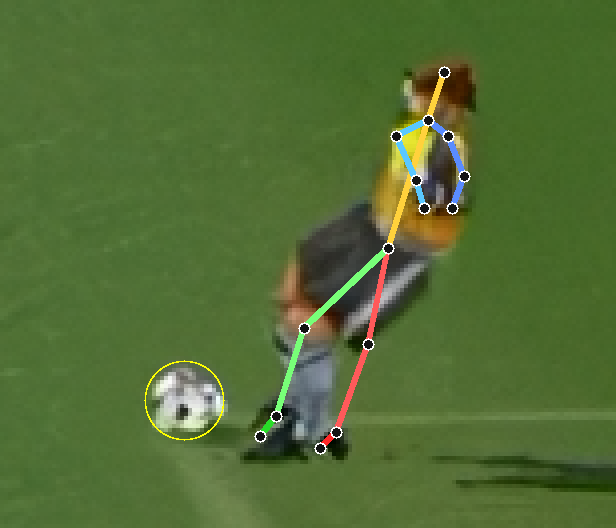
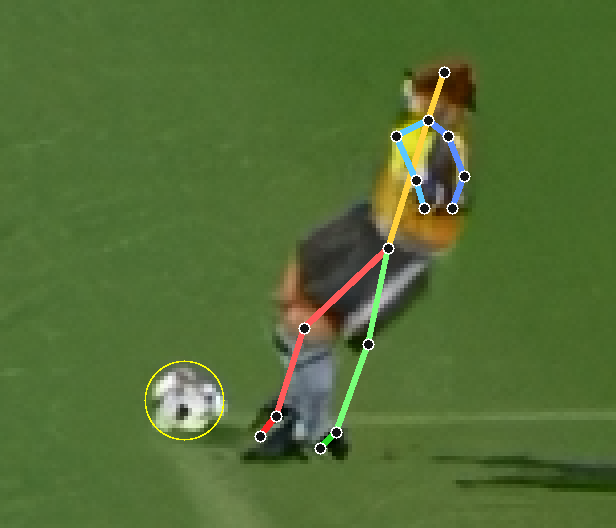
GK settings

diff --git a/js/config/animations.js b/js/config/animations.js
@@ -118,12 +118,12 @@ const ActionAnimClips = {
     tiro de meta tem a corrida de aproximação mais longa e o batedor levanta a
     bola, a falta e o penálti batem-na rasa a poucos passos.
 
-    Mesma contagem e mesmo contacto do `playerKick` porque o gesto ARRANCA daí:
-    4 keyframes (as imagens GoalKick1 a 4) e o contacto no último, portanto
-    `contactTime` 1 e nenhum follow-through. Os números divergem a partir daqui
-    conforme se afinam no editor de animação, e é isso que se queria.
+    O CONTACTO É NO KEYFRAME 9 DE 13 — `contactTime` 8/12 — e não no fim. Era
+    1, com o clip a acabar no contacto e sem seguimento: a bola saía com ele já
+    de pé. Desde que o clip foi refeito com a ordem certa das fotografias
+    (ver GoalKickClip), o contacto é a meio e o seguimento joga-se depois.
     */
-    goalKick: { duration: 0.55, contactTime: 1 }
+    goalKick: { duration: 0.55, contactTime: 8 / 12 }
 };
 
 /*
@@ -604,24 +604,33 @@ graus, e a terceira deixou o frame do contacto com as pernas a 22 graus uma da
 outra — um homem parado. Relato: *"Vc não consegue identificar os frames
 corretamente."* Estava certo.
 
-A ORDEM É A DAS IMAGENS COMO CHEGARAM: GoalKick1, 2, 3 e 4 nos principais 1,
-5, 9 e 13. Dada pelo autor, e repetida depois de eu a ter trocado.
+A ORDEM É 24 -> 26 -> 23 -> 25, CONFIRMADA PELO AUTOR A 2 DE OUTUBRO.
 
-COMO EU A TROQUEI, para não se repetir: comparei a distância do jogador à
-bola em PÍXEIS — ~50 px numa imagem, ~85 px na outra — e concluí que a mais
-longe vinha primeiro. A conta não vale nada, porque as imagens têm ZOOMS
+Em Setembro foi outra — 24, 23, 25, 26, "as imagens como chegaram" — e com ela
+o clip acabava num contacto DEDUZIDO, sem imagem, e a perna de chute nunca
+passava para a frente: ia atrás no balanço, ficava atrás e descia. A bola saía
+no fim, com ele de pé (*"o tiro de meta"*). Perguntado com as provas à frente,
+o autor confirmou a ordem nova. As provas, para quem vier depois:
+
+  . na 26 a bola AINDA ESTÁ PARADA ao lado do pé de apoio — é ANTES do contacto;
+  . na 25 JÁ NÃO HÁ BOLA e a perna está esticada no ar — é DEPOIS;
+  . na 23 os dois pés estão rente à relva junto à bola — é o contacto.
+
+E a 25 está virada para a ESQUERDA, como as outras: lida para a direita, a
+perna esticada dava "77 graus atrás"; é à FRENTE. Confirmado.
+
+COMO EU A TINHA TROCADO ANTES, para não se repetir: comparei a distância do
+jogador à bola em PÍXEIS — ~50 px numa imagem, ~85 px na outra — e concluí que
+a mais longe vinha primeiro. A conta não vale nada, porque as imagens têm ZOOMS
 DIFERENTES: uma tem 153 px de largura e a outra 199. Distâncias em píxeis só
 se comparam DENTRO da mesma imagem.
 
-    1  GoalKick1   o arranque do passo, VISTA DE COSTAS: tronco à frente,
-                   pé de apoio no chão, perna de chute atrás e no ar
-    5  GoalKick2   o fim do passo: pé de apoio PLANTADO AO LADO DA BOLA, 55
-                   graus à frente; perna de chute 88 graus atrás, esticada;
-                   braço esquerdo atrás e direito à frente
-    9  GoalKick3   armação, VISTA DE COSTAS: perna de chute 77 graus atrás e
-                   ESTICADA (não é o calcanhar no glúteo — medido, o joelho
-                   tem 10 graus de flexão), braços abertos PARA OS LADOS
-   13  GoalKick4   CONTACTO — DEDUZIDO, não há imagem deste instante
+    1  fotografia 24   a aproximação: a correr para a bola, tronco à frente
+    5  fotografia 26   o balanço atrás: pé de apoio PLANTADO AO LADO DA BOLA,
+                       55 graus à frente; perna de chute 88 graus atrás
+    9  fotografia 23   o CONTACTO: os dois pés rente à relva junto à bola,
+                       tronco 17 graus para trás
+   13  fotografia 25   o seguimento: perna de chute esticada 75 graus À FRENTE
 
 =============================================================================
 É UM PASSO, E O PÉ DE APOIO FICA AO LADO DA BOLA
@@ -646,6 +655,11 @@ DUAS ARMADILHAS DA LEITURA, que já me apanharam as duas:
     a primeira pela que vai BATER. É o contrário: a que se planta AO LADO da
     bola é a de APOIO, e a de chute é a que está atrás, ainda a vir. Esse
     engano pôs a pose do meio no fim do gesto.
+  . UMA VISTA DE TRÁS ENCURTA A PERNA QUE VAI À FRENTE. A 23 é tirada de trás,
+    a três quartos: a perna de chute aponta para a frente — para dentro da
+    imagem — e aparece mais curta e mais vertical do que é. O ângulo lido
+    nela (-46 graus) punha o pé de chute meio metro ACIMA da bola. No
+    contacto manda a bola, não o traçado: o pé tem de passar rente à relva.
   . NÃO HÁ UM PÉ QUE SEJA SEMPRE O QUE ASSENTA, portanto o `altura`
     resolve-se pelo pé MAIS BAIXO e não por um escolhido à mão. Quando era
     escolhido à mão, um keyframe acabou com o pé de chute 0.135 m DENTRO do
@@ -660,7 +674,8 @@ anca ao pé — portanto o valor sai de uma conta: `altura -= (y_do_pé_mais_bai
 contacto (*"o jogador aparece flutuando"*).
 
 Varrido o gesto em 41 amostras da interpolação, o pé de baixo afunda no
-máximo 0.021 m — 2 cm, invisível.
+máximo 0.018 m e flutua no máximo 0.009 m — invisível. (Medido nos valores
+como estão escritos aqui, a duas casas: o arredondamento conta.)
 
 Ângulos face à vertical, POSITIVO = para TRÁS do jogador. A conversão para o
 rig é `coxa_rig = ângulo_medido - pitchX`, porque o `pitchX` roda a anca e
@@ -694,77 +709,59 @@ esse keyframe que manda no seu instante.
 QUEM AFINAR UM PRINCIPAL tem de repensar os interpolados à volta dele, que já
 não estarão na linha entre os dois. O `tools/anim/README.md` tem o caminho.
 
-CONTACTO NO ÚLTIMO KEYFRAME (`contactFrame: 13`, t = 1.0): não há
-follow-through, a bola sai no instante em que o gesto acaba.
+CONTACTO NO KEYFRAME 9 (`contactFrame: 9`, t = 8/12): a bola sai no meio do
+gesto e o SEGUIMENTO (10 a 13) vê-se depois dela, com a perna de chute a subir
+à frente. Era no último keyframe, com o jogador já de pé — a bola saía sem
+haver chuto nenhum à vista.
 =============================================================================
 */
 const GoalKickClip = {
     pernaChute: 'r',
-    contactFrame: 13,
+    contactFrame: 9,
     frames: [
-        // ===== PRINCIPAL 1 — GoalKick1 =====
-        // O arranque do passo, VISTA DE COSTAS: tronco 19 graus à frente, pé
-        // de apoio no chão, perna de chute 33 graus atrás com o pé a 0.24 m.
-        //
-        // ESTA IMAGEM É A MENOS LEGÍVEL DAS QUATRO — 32 KB contra os 47 KB
-        // das outras, mais pequena e mais escura — e a ANCA não se distingue
-        // nela. Foi construída só do que a imagem mostra sem dúvida: corpo à
-        // frente, apoio no chão, chute atrás e no ar, braços baixos junto ao
-        // corpo — e conferida na vista de costas, que é a da fotografia.
-        { avanco: 0.00, leanZ: -0.14, pitchX: 0.28, chest: 0.06, coxaChute: 0.30, joelhoChute: 0.50, coxaChuteZ: -0.08, coxaApoio: -0.30, joelhoApoio: 0.45, bracoLx: 0.20, bracoLz: 0.28, bracoRx: 0.20, bracoRz: -0.28, cotoveloL: -0.75, cotoveloR: -0.75, peRx: -0.25, peLx: -0.15, cabecaX: -0.25, altura: -0.00, maoRx: 0.19, maoRy: 0.00, maoRz: 0.00, peLy: 0.17 },
-        // 2 — interpolado entre os principais 1 e 5.
-        { avanco: 0.25, leanZ: -0.13, pitchX: 0.21, chest: 0.05, coxaChute: 0.61, joelhoChute: 0.43, coxaChuteZ: -0.05, coxaApoio: -0.47, joelhoApoio: 0.43, bracoLx: 0.53, bracoLz: 0.30, bracoRx: -0.26, bracoRz: -0.30, cotoveloL: -0.59, cotoveloR: -0.59, peRx: -0.24, peLx: -0.17, cabecaX: -0.19, altura: -0.02, maoRx: 0.19, maoRy: 0.00, maoRz: 0.00, peLy: 0.17 },
+        // ===== PRINCIPAL 1 — fotografia 24 — A APROXIMACAO =====
+        // A correr para a bola, que esta longe a frente. Tronco 11 graus a
+        // frente. A perna de chute e a da FRENTE, no chao: o corpo passa por
+        // cima dela e e ela que fica atras no principal 5 — e o passo.
+        { avanco: 0.00, leanZ: -0.14, pitchX: 0.15, chest: 0.05, coxaChute: -0.36, joelhoChute: 0.71, coxaChuteZ: -0.08, coxaApoio: 0.58, joelhoApoio: 0.05, bracoLx: -0.09, bracoLz: 0.28, bracoRx: -0.39, bracoRz: -0.28, cotoveloL: -0.20, cotoveloR: -0.15, peRx: -0.25, peLx: -0.15, cabecaX: -0.25, altura: -0.03, maoRx: 0.19, maoRy: 0.00, maoRz: 0.00, peLy: 0.17 },
+        // 2 — interpolado entre os principais 1 e 5 (as pernas cruzam-se).
+        { avanco: 0.25, leanZ: -0.12, pitchX: 0.11, chest: 0.04, coxaChute: 0.11, joelhoChute: 0.59, coxaChuteZ: -0.05, coxaApoio: 0.20, joelhoApoio: 0.13, bracoLx: 0.31, bracoLz: 0.30, bracoRx: -0.70, bracoRz: -0.30, cotoveloL: -0.18, cotoveloR: -0.14, peRx: -0.24, peLx: -0.17, cabecaX: -0.19, altura: 0.02, maoRx: 0.19, maoRy: 0.00, maoRz: 0.00, peLy: 0.17 },
         // 3 — interpolado entre os principais 1 e 5.
-        { avanco: 0.50, leanZ: -0.11, pitchX: 0.14, chest: 0.04, coxaChute: 0.92, joelhoChute: 0.36, coxaChuteZ: -0.01, coxaApoio: -0.63, joelhoApoio: 0.41, bracoLx: 0.85, bracoLz: 0.32, bracoRx: -0.72, bracoRz: -0.32, cotoveloL: -0.42, cotoveloR: -0.42, peRx: -0.23, peLx: -0.20, cabecaX: -0.13, altura: -0.09, maoRx: 0.19, maoRy: 0.00, maoRz: 0.00, peLy: 0.17 },
+        { avanco: 0.50, leanZ: -0.11, pitchX: 0.07, chest: 0.04, coxaChute: 0.59, joelhoChute: 0.47, coxaChuteZ: -0.01, coxaApoio: -0.19, joelhoApoio: 0.21, bracoLx: 0.70, bracoLz: 0.32, bracoRx: -1.02, bracoRz: -0.31, cotoveloL: -0.15, cotoveloR: -0.12, peRx: -0.22, peLx: -0.20, cabecaX: -0.12, altura: 0.02, maoRx: 0.19, maoRy: 0.00, maoRz: 0.00, peLy: 0.17 },
         // 4 — interpolado entre os principais 1 e 5.
-        { avanco: 0.75, leanZ: -0.10, pitchX: 0.07, chest: 0.04, coxaChute: 1.23, joelhoChute: 0.30, coxaChuteZ: 0.02, coxaApoio: -0.80, joelhoApoio: 0.39, bracoLx: 1.18, bracoLz: 0.33, bracoRx: -1.18, bracoRz: -0.33, cotoveloL: -0.26, cotoveloR: -0.26, peRx: -0.21, peLx: -0.23, cabecaX: -0.06, altura: -0.21, maoRx: 0.19, maoRy: 0.00, maoRz: 0.00, peLy: 0.17 },
-        // ===== PRINCIPAL 5 — GoalKick2 — O PÉ DE APOIO AO LADO DA BOLA =====
-        // O fim do passo: `coxaApoio` -0.96 põe a perna de apoio 55 graus à
-        // FRENTE, a plantar-se ao lado da bola, e `coxaChute` 1.54 põe a de
-        // chute 88 graus ATRÁS, esticada e a 0.53 m do chão. Tronco a prumo.
-        // Braço esquerdo ATRÁS (o oposto à perna de chute) e direito à
-        // FRENTE (o oposto ao pé de apoio).
-        //
-        // EU TINHA ESTA IMAGEM LIDA AO CONTRÁRIO, e era esse o erro de fundo:
-        // tomei a perna que está junto à bola pela perna que vai BATER nela,
-        // e a que está no ar atrás pela de apoio. É o inverso — a perna que
-        // se planta AO LADO da bola é a de apoio, e a que está atrás e alta é
-        // a de chute, ainda a vir. Com os papéis trocados eu punha esta pose
-        // no fim do gesto, como se fosse o contacto; ela é o MEIO.
-        { avanco: 1.00, leanZ: -0.08, pitchX: 0.00, chest: 0.03, coxaChute: 1.54, joelhoChute: 0.23, coxaChuteZ: 0.05, coxaApoio: -0.96, joelhoApoio: 0.37, bracoLx: 1.50, bracoLz: 0.35, bracoRx: -1.64, bracoRz: -0.35, cotoveloL: -0.10, cotoveloR: -0.10, peRx: -0.20, peLx: -0.25, cabecaX: 0.00, altura: -0.38, maoRx: 0.19, maoRy: 0.00, maoRz: 0.00, peLy: 0.17 },
-        // 6 — interpolado entre os principais 5 e 9.
-        { avanco: 1.00, leanZ: -0.10, pitchX: 0.03, chest: 0.03, coxaChute: 1.49, joelhoChute: 0.22, coxaChuteZ: 0.00, coxaApoio: -0.86, joelhoApoio: 0.35, bracoLx: 1.07, bracoLz: 0.53, bracoRx: -1.18, bracoRz: -0.53, cotoveloL: -0.16, cotoveloR: -0.17, peRx: -0.24, peLx: -0.19, cabecaX: -0.03, altura: -0.28, maoRx: 0.19, maoRy: 0.00, maoRz: 0.00, peLy: 0.17 },
+        { avanco: 0.75, leanZ: -0.09, pitchX: 0.04, chest: 0.03, coxaChute: 1.06, joelhoChute: 0.35, coxaChuteZ: 0.02, coxaApoio: -0.57, joelhoApoio: 0.29, bracoLx: 1.10, bracoLz: 0.33, bracoRx: -1.33, bracoRz: -0.33, cotoveloL: -0.13, cotoveloR: -0.11, peRx: -0.21, peLx: -0.22, cabecaX: -0.06, altura: -0.05, maoRx: 0.19, maoRy: 0.00, maoRz: 0.00, peLy: 0.17 },
+        // ===== PRINCIPAL 5 — fotografia 26 — O BALANCO ATRAS =====
+        // Pe de apoio PLANTADO AO LADO DA BOLA, 55 graus a frente; perna de
+        // chute 88 graus atras, esticada; bracos abertos. A bola ainda esta
+        // parada ao lado do pe de apoio — e por isso que esta pose vem ANTES do
+        // contacto. Este keyframe e o de Setembro, que ja estava certo.
+        { avanco: 1.00, leanZ: -0.08, pitchX: 0.00, chest: 0.03, coxaChute: 1.54, joelhoChute: 0.23, coxaChuteZ: 0.05, coxaApoio: -0.96, joelhoApoio: 0.37, bracoLx: 1.50, bracoLz: 0.35, bracoRx: -1.64, bracoRz: -0.35, cotoveloL: -0.10, cotoveloR: -0.10, peRx: -0.20, peLx: -0.25, cabecaX: 0.00, altura: -0.25, maoRx: 0.19, maoRy: 0.00, maoRz: 0.00, peLy: 0.17 },
+        // 6 — interpolado entre os principais 5 e 9 (a perna desce para a bola).
+        { avanco: 1.00, leanZ: -0.10, pitchX: -0.06, chest: 0.00, coxaChute: 1.14, joelhoChute: 0.20, coxaChuteZ: 0.00, coxaApoio: -0.71, joelhoApoio: 0.29, bracoLx: 1.22, bracoLz: 0.35, bracoRx: -1.12, bracoRz: -0.35, cotoveloL: -0.26, cotoveloR: -0.11, peRx: -0.24, peLx: -0.19, cabecaX: -0.02, altura: -0.15, maoRx: 0.19, maoRy: 0.00, maoRz: 0.00, peLy: 0.17 },
         // 7 — interpolado entre os principais 5 e 9.
-        { avanco: 1.00, leanZ: -0.12, pitchX: 0.06, chest: 0.03, coxaChute: 1.45, joelhoChute: 0.20, coxaChuteZ: -0.05, coxaApoio: -0.76, joelhoApoio: 0.34, bracoLx: 0.65, bracoLz: 0.70, bracoRx: -0.72, bracoRz: -0.70, cotoveloL: -0.23, cotoveloR: -0.25, peRx: -0.28, peLx: -0.13, cabecaX: -0.05, altura: -0.19, maoRx: 0.19, maoRy: 0.00, maoRz: 0.00, peLy: 0.17 },
+        { avanco: 1.00, leanZ: -0.12, pitchX: -0.11, chest: -0.02, coxaChute: 0.74, joelhoChute: 0.17, coxaChuteZ: -0.05, coxaApoio: -0.47, joelhoApoio: 0.21, bracoLx: 0.94, bracoLz: 0.35, bracoRx: -0.61, bracoRz: -0.35, cotoveloL: -0.42, cotoveloR: -0.12, peRx: -0.28, peLx: -0.12, cabecaX: -0.05, altura: -0.07, maoRx: 0.19, maoRy: 0.00, maoRz: 0.00, peLy: 0.17 },
         // 8 — interpolado entre os principais 5 e 9.
-        { avanco: 1.00, leanZ: -0.14, pitchX: 0.09, chest: 0.03, coxaChute: 1.40, joelhoChute: 0.19, coxaChuteZ: -0.10, coxaApoio: -0.65, joelhoApoio: 0.32, bracoLx: 0.23, bracoLz: 0.88, bracoRx: -0.26, bracoRz: -0.88, cotoveloL: -0.29, cotoveloR: -0.33, peRx: -0.31, peLx: -0.06, cabecaX: -0.07, altura: -0.12, maoRx: 0.19, maoRy: 0.00, maoRz: 0.00, peLy: 0.17 },
-        // ===== PRINCIPAL 9 — GoalKick3 =====
-        // Armação, VISTA DE COSTAS: perna de chute 77 graus atrás e ESTICADA
-        // (medido no traçado, o joelho tem 10 graus de flexão — não é o
-        // calcanhar no glúteo). Braços abertos PARA OS LADOS: numa vista de
-        // costas, um braço estendido para o lado da imagem é abertura
-        // lateral e não recuo.
-        //
-        // `coxaApoio` desceu de +0.19 para -0.55: o pé de apoio está cravado
-        // ao lado da bola desde o principal 5, portanto a coxa não pode estar
-        // ATRÁS da anca — vem da -0.96 na direcção da vertical.
-        { avanco: 1.00, leanZ: -0.16, pitchX: 0.12, chest: 0.03, coxaChute: 1.35, joelhoChute: 0.18, coxaChuteZ: -0.15, coxaApoio: -0.55, joelhoApoio: 0.30, bracoLx: -0.20, bracoLz: 1.05, bracoRx: 0.20, bracoRz: -1.05, cotoveloL: -0.35, cotoveloR: -0.40, peRx: -0.35, peLx: 0.00, cabecaX: -0.10, altura: -0.06, maoRx: 0.19, maoRy: 0.00, maoRz: 0.00, peLy: 0.17 },
-        // 10 — interpolado entre os principais 9 e 13.
-        { avanco: 1.00, leanZ: -0.14, pitchX: 0.08, chest: 0.01, coxaChute: 0.86, joelhoChute: 0.17, coxaChuteZ: -0.10, coxaApoio: -0.50, joelhoApoio: 0.30, bracoLx: 0.03, bracoLz: 0.90, bracoRx: -0.03, bracoRz: -0.90, cotoveloL: -0.31, cotoveloR: -0.35, peRx: -0.30, peLx: -0.05, cabecaX: -0.10, altura: -0.06, maoRx: 0.19, maoRy: 0.00, maoRz: 0.00, peLy: 0.17 },
+        { avanco: 1.00, leanZ: -0.14, pitchX: -0.17, chest: -0.05, coxaChute: 0.33, joelhoChute: 0.13, coxaChuteZ: -0.10, coxaApoio: -0.22, joelhoApoio: 0.13, bracoLx: 0.66, bracoLz: 0.35, bracoRx: -0.09, bracoRz: -0.35, cotoveloL: -0.58, cotoveloR: -0.14, peRx: -0.31, peLx: -0.06, cabecaX: -0.08, altura: -0.02, maoRx: 0.19, maoRy: 0.00, maoRz: 0.00, peLy: 0.17 },
+        // ===== PRINCIPAL 9 — fotografia 23 — CONTACTO (contactFrame) =====
+        // Os dois pes rente a relva junto a bola, pernas debaixo do corpo,
+        // tronco 17 graus para TRAS. Apoio e tronco do tracado; a coxa e o
+        // joelho de CHUTE resolvidos para o pe passar rente a relva (7 cm
+        // acima do de apoio, a meia altura de baixo da bola) e 5 cm a frente
+        // dele — a 23 e vista de tras a tres quartos, e o angulo lido nela
+        // (-46 graus) punha o pe meio metro ACIMA da bola.
+        { avanco: 1.00, leanZ: -0.16, pitchX: -0.23, chest: -0.08, coxaChute: -0.07, joelhoChute: 0.10, coxaChuteZ: -0.15, coxaApoio: 0.02, joelhoApoio: 0.05, bracoLx: 0.38, bracoLz: 0.35, bracoRx: 0.43, bracoRz: -0.35, cotoveloL: -0.74, cotoveloR: -0.15, peRx: -0.35, peLx: 0.00, cabecaX: -0.10, altura: 0.01, maoRx: 0.19, maoRy: 0.00, maoRz: 0.00, peLy: 0.17 },
+        // 10 — interpolado entre os principais 9 e 13 (a perna sobe a frente).
+        { avanco: 1.00, leanZ: -0.15, pitchX: -0.21, chest: -0.07, coxaChute: -0.34, joelhoChute: 0.09, coxaChuteZ: -0.10, coxaApoio: -0.03, joelhoApoio: 0.07, bracoLx: 0.53, bracoLz: 0.40, bracoRx: 0.06, bracoRz: -0.40, cotoveloL: -0.60, cotoveloR: -0.20, peRx: -0.30, peLx: -0.05, cabecaX: -0.10, altura: 0.01, maoRx: 0.19, maoRy: 0.00, maoRz: 0.00, peLy: 0.17 },
         // 11 — interpolado entre os principais 9 e 13.
-        { avanco: 1.00, leanZ: -0.13, pitchX: 0.04, chest: -0.01, coxaChute: 0.38, joelhoChute: 0.17, coxaChuteZ: -0.05, coxaApoio: -0.45, joelhoApoio: 0.30, bracoLx: 0.25, bracoLz: 0.75, bracoRx: -0.25, bracoRz: -0.75, cotoveloL: -0.28, cotoveloR: -0.30, peRx: -0.25, peLx: -0.10, cabecaX: -0.10, altura: -0.07, maoRx: 0.19, maoRy: 0.00, maoRz: 0.00, peLy: 0.17 },
+        { avanco: 1.00, leanZ: -0.13, pitchX: -0.19, chest: -0.06, coxaChute: -0.62, joelhoChute: 0.08, coxaChuteZ: -0.05, coxaApoio: -0.07, joelhoApoio: 0.10, bracoLx: 0.67, bracoLz: 0.45, bracoRx: -0.30, bracoRz: -0.45, cotoveloL: -0.46, cotoveloR: -0.26, peRx: -0.25, peLx: -0.10, cabecaX: -0.10, altura: 0.01, maoRx: 0.19, maoRy: 0.00, maoRz: 0.00, peLy: 0.17 },
         // 12 — interpolado entre os principais 9 e 13.
-        { avanco: 1.00, leanZ: -0.12, pitchX: -0.01, chest: -0.03, coxaChute: -0.11, joelhoChute: 0.16, coxaChuteZ: 0.00, coxaApoio: -0.40, joelhoApoio: 0.30, bracoLx: 0.47, bracoLz: 0.60, bracoRx: -0.47, bracoRz: -0.60, cotoveloL: -0.24, cotoveloR: -0.25, peRx: -0.20, peLx: -0.15, cabecaX: -0.10, altura: -0.05, maoRx: 0.19, maoRy: 0.00, maoRz: 0.00, peLy: 0.17 },
-        // ===== PRINCIPAL 13 — GoalKick4 — CONTACTO =====
-        // DEDUZIDO, e não medido: não há imagem de referência para este
-        // instante. É a continuação do que os outros três mostram — o pé de
-        // apoio fica onde se plantou e a perna de chute vem de trás (1.54)
-        // para a frente (-0.60), com o joelho a esticar; os braços, que
-        // estavam esticados um à frente e outro atrás, fecham para metade.
-        //
-        // MANDA A IMAGEM DESTE INSTANTE e ele passa a ser medido como os
-        // outros, com o traçado de `tools/anim/`.
-        { avanco: 1.00, leanZ: -0.10, pitchX: -0.05, chest: -0.05, coxaChute: -0.60, joelhoChute: 0.15, coxaChuteZ: 0.05, coxaApoio: -0.35, joelhoApoio: 0.30, bracoLx: 0.70, bracoLz: 0.45, bracoRx: -0.70, bracoRz: -0.45, cotoveloL: -0.20, cotoveloR: -0.20, peRx: -0.15, peLx: -0.20, cabecaX: -0.10, altura: -0.07, maoRx: 0.19, maoRy: 0.00, maoRz: 0.00, peLy: 0.17 }
+        { avanco: 1.00, leanZ: -0.11, pitchX: -0.16, chest: -0.05, coxaChute: -0.89, joelhoChute: 0.06, coxaChuteZ: 0.00, coxaApoio: -0.12, joelhoApoio: 0.12, bracoLx: 0.82, bracoLz: 0.50, bracoRx: -0.67, bracoRz: -0.50, cotoveloL: -0.31, cotoveloR: -0.31, peRx: -0.20, peLx: -0.15, cabecaX: -0.10, altura: 0.01, maoRx: 0.19, maoRy: 0.00, maoRz: 0.00, peLy: 0.17 },
+        // ===== PRINCIPAL 13 — fotografia 25 — O SEGUIMENTO =====
+        // A bola ja saiu. Perna de chute ESTICADA 75 graus A FRENTE, quase na
+        // horizontal; apoio a prumo; um braco a frente e outro atras. Em
+        // Setembro foi lida com o jogador virado para a direita, e a mesma
+        // perna dava "77 graus atras" — confirmado pelo autor: e a frente.
+        { avanco: 1.00, leanZ: -0.10, pitchX: -0.14, chest: -0.05, coxaChute: -1.17, joelhoChute: 0.05, coxaChuteZ: 0.05, coxaApoio: -0.17, joelhoApoio: 0.15, bracoLx: 0.97, bracoLz: 0.55, bracoRx: -1.03, bracoRz: -0.55, cotoveloL: -0.17, cotoveloR: -0.37, peRx: -0.15, peLx: -0.20, cabecaX: -0.10, altura: 0.00, maoRx: 0.19, maoRy: 0.00, maoRz: 0.00, peLy: 0.17 },
     ]
 };
 

diff --git a/js/player.js b/js/player.js
@@ -392,7 +392,8 @@ class FootballPlayer {
 
     A aproximacao passou a ser parte do proprio clip (PlayerKickClip,
     keyframes 0 e 1), portanto nao ha nada de onde misturar o esqueleto. O que
-    resta aqui e so o corpo: a posicao planar, que desliza ate plantX/plantZ, e
+    resta aqui e so o corpo: a posicao planar, que desliza ate o PE DE APOIO
+    ficar em plantX/plantZ (ver "QUEM VAI AO PONTO DE APOIO E O PE"), e
     o quaterniao, porque a corrida olha para a BOLA e o gesto olha campo
     adentro.
     */
@@ -8133,11 +8134,64 @@ class FootballPlayer {
                 gkCorpo.quaternion.copy(BQ.quatOrigem).slerp(BQ.quatAlvo, BQ.w);
             }
 
+            /*
+            =================================================================
+            QUEM VAI AO PONTO DE APOIO E O PE, NAO O CORPO
+            =================================================================
+            Relato, com captura: *"o pe de apoio no tiro de meta tem que ficar
+            ao lado da bola: imagem GoalKick2. Esta ficando a frente da bola."*
+
+            O `plantX`/`plantZ` (0.10 m atras da bola, 0.32 m ao lado) era
+            aplicado a ORIGEM do corpo. So que no balanco a coxa de apoio esta
+            55 graus a frente, e o pe fica longe da anca. Medido no rig, com o
+            corpo virado para a frente:
+
+                keyframe 5 (o pe planta)    pe de apoio 0.71 m a frente do corpo
+                keyframe 9 (contacto)                   0.23 m
+                keyframe 13                             0.30 m
+
+            Com o corpo no ponto de apoio, o pe plantava ~0.6 m A FRENTE da
+            bola — a captura. E havia um segundo defeito por baixo deste: com
+            o corpo parado do 5 ao 9, o pe recuava 0.48 m em relacao a ele, ou
+            seja ESCORREGAVA PARA TRAS na relva durante o chuto.
+
+            Os dois resolvem-se da mesma maneira. Em cada frame, com a pose E a
+            rotacao deste frame ja escritas, le-se onde esta o pe de apoio face
+            ao corpo, e poe-se o corpo de maneira que o PE caia no ponto de
+            apoio. Ao ritmo do `avanco`: antes de plantar, o corpo aproxima-se
+            desse alvo; com o `avanco` a 1 o pe fica cravado e e o corpo que
+            passa por cima dele. E uma formula so, por isso nao ha salto na
+            passagem.
+
+            O ponto de apoio passa assim a querer dizer o que o comentario do
+            tiro de meta sempre disse que era: onde fica o PE. A bola fica 0.10
+            m a frente dele e 0.32 m ao lado, e e ai que o pe de chute a vai
+            encontrar no contacto.
+            =================================================================
+            */
+            if (isGroundKick && this.gkKickBlend && gkRig) {
+                const BP = this.gkKickBlend;
+                const clipPe = (this.gkKickClipNome === 'goalKick') ? GoalKickClip : PlayerKickClip;
+                const peApoio = (clipPe.pernaChute === 'r')
+                    ? (gkRig.lBota || gkRig.lFoot) : (gkRig.rBota || gkRig.rFoot);
+                if (peApoio) {
+                    gkCorpo.updateMatrixWorld(true);
+                    peApoio.getWorldPosition(_v1);
+                    const offX = _v1.x - gkCorpo.position.x;
+                    const offZ = _v1.z - gkCorpo.position.z;
+                    const alvoX = BP.plantX - offX;
+                    const alvoZ = BP.plantZ - offZ;
+                    gkCorpo.position.x = BP.origemX + (alvoX - BP.origemX) * BP.w;
+                    gkCorpo.position.z = BP.origemZ + (alvoZ - BP.origemZ) * BP.w;
+                }
+            }
+
             if (!this.gkKickAction || this.gkKickAction.isDone()) {
                 this.gkKickAction = null;
                 // O alvo morre com o gesto: ver a nota da rotação acima.
                 this.gkAlvoLancamento = null;
                 this.gkKickBlend = null;
+                this.gkKickTipo = null;
                 this.gkEstado = 'idle';
                 this.resetBonesToDefault();
             }
@@ -8620,7 +8674,15 @@ class FootballPlayer {
         Match.mudarEstado('PLAY', eraFalta ? 'free_kick_taken' : 'goal_kick_taken');
         Match.marcarRepositor(this, eraFalta ? 'falta' : 'tiro_de_meta');
         if (eraFalta) Match.faltaDirecta = false;
-        this.gkKickTipo = null;
+        /*
+        O `gkKickTipo` NAO SE APAGA AQUI. Apagava-se, e era inofensivo enquanto o
+        contacto era o ultimo frame do gesto. Desde que o GoalKickClip tem o
+        contacto no keyframe 9 de 13, o gesto continua DEPOIS da bola sair — e
+        com o tipo a null o ramo do desenho achava que ja nao era um chuto do
+        chao e desenhava o resto com o clip do PONTAPE DA MAO: medido, o pe de
+        apoio saltava 27 cm num frame e o corpo congelava. Apaga-se no fim do
+        gesto, com o resto (ver o `isDone` no ramo 'chutando').
+        */
 
         if (typeof MatchStats !== 'undefined') MatchStats.registarPasseIniciado(this.team, 'lancamento');
     }

diff --git a/tools/anim/README.md b/tools/anim/README.md
@@ -52,12 +52,23 @@ assim não se parecem com nada.
 
 ## Duas armadilhas, as duas já custaram uma versão
 
-- **A vista muda de imagem para imagem.** Nas imagens 23, 24 e 26 o jogador
-  vai para a esquerda; na 25 está de costas. Um braço estendido para o lado da
+- **A vista muda de imagem para imagem.** Nas quatro imagens do tiro de meta o
+  jogador vai para a esquerda; a 23 e a 25 são vistas de trás, a três quartos. Um braço estendido para o lado da
   imagem é `bracoLx` numa vista de lado e `bracoLz` numa vista de costas.
-- **A ordem das imagens não é a ordem em que chegam.** Mede-se pela distância
-  do jogador à bola: na 24 está a ~85 px, na 23 a ~50 px, logo a 24 vem
-  primeiro. A ordem do tiro de meta é 24, 23, 25, 26.
+- **A ordem das imagens não se tira da distância em píxeis.** Foi assim que
+  se chegou a 24, 23, 25, 26 — e estava errada: as imagens têm zooms
+  diferentes, e distâncias em píxeis só se comparam dentro da mesma imagem.
+  O que decide é **onde está a bola**: parada ao lado do pé de apoio é antes
+  do contacto, já fora da imagem é depois. A ordem do tiro de meta é
+  **24, 26, 23, 25**, confirmada pelo autor a 2 de Outubro de 2026.
+- **Uma vista de trás encurta a perna que vai à frente.** A 23 é tirada de trás
+  a três quartos: a perna de chute aponta para dentro da imagem e parece mais
+  curta e mais vertical do que é. O ângulo lido nela (-46 graus) punha o pé
+  meio metro acima da bola. No contacto manda a bola, não o traçado.
+- **As fichas trazem a leitura.** Até 2 de Outubro três delas tinham os nomes
+  `Chute`/`Apoio` trocados, e a 25 dizia `"frente": "direita"` — com isso a
+  perna esticada lia-se atrás, e é à frente. Cada ficha tem agora um campo
+  `leitura` a dizer o que se corrigiu.
 
 ## Converter um ângulo medido num canal do clip
 
